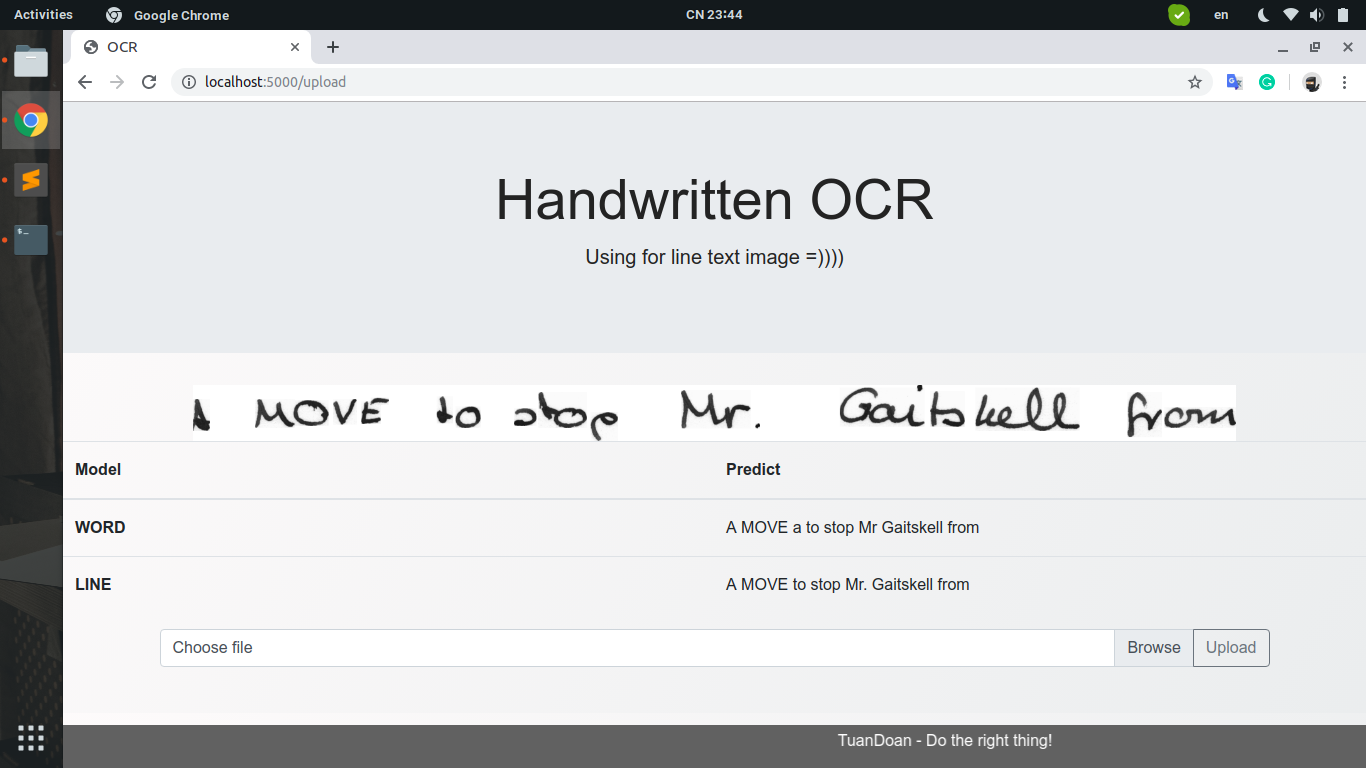
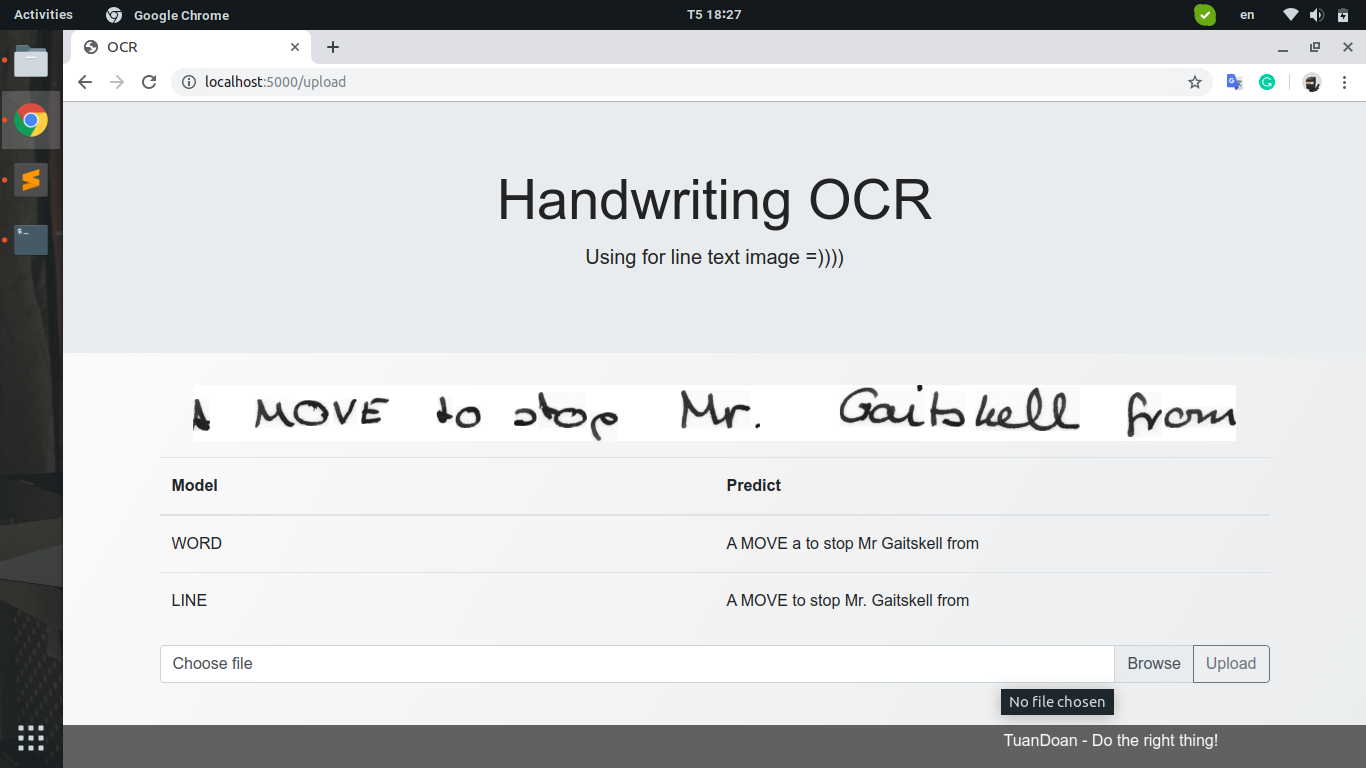
Edit st

diff --git a/Demo/templates/template.html b/Demo/templates/template.html
@@ -38,7 +38,7 @@
 
         <div class="jumbotron jumbotron-fluid">
           <div class="container">
-            <h1 class="display-4 text-center">Handwritten OCR</h1>
+            <h1 class="display-4 text-center">Handwriting OCR</h1>
             <p class="lead text-center">Using for line text image =))))</p>
           </div>
         </div>
